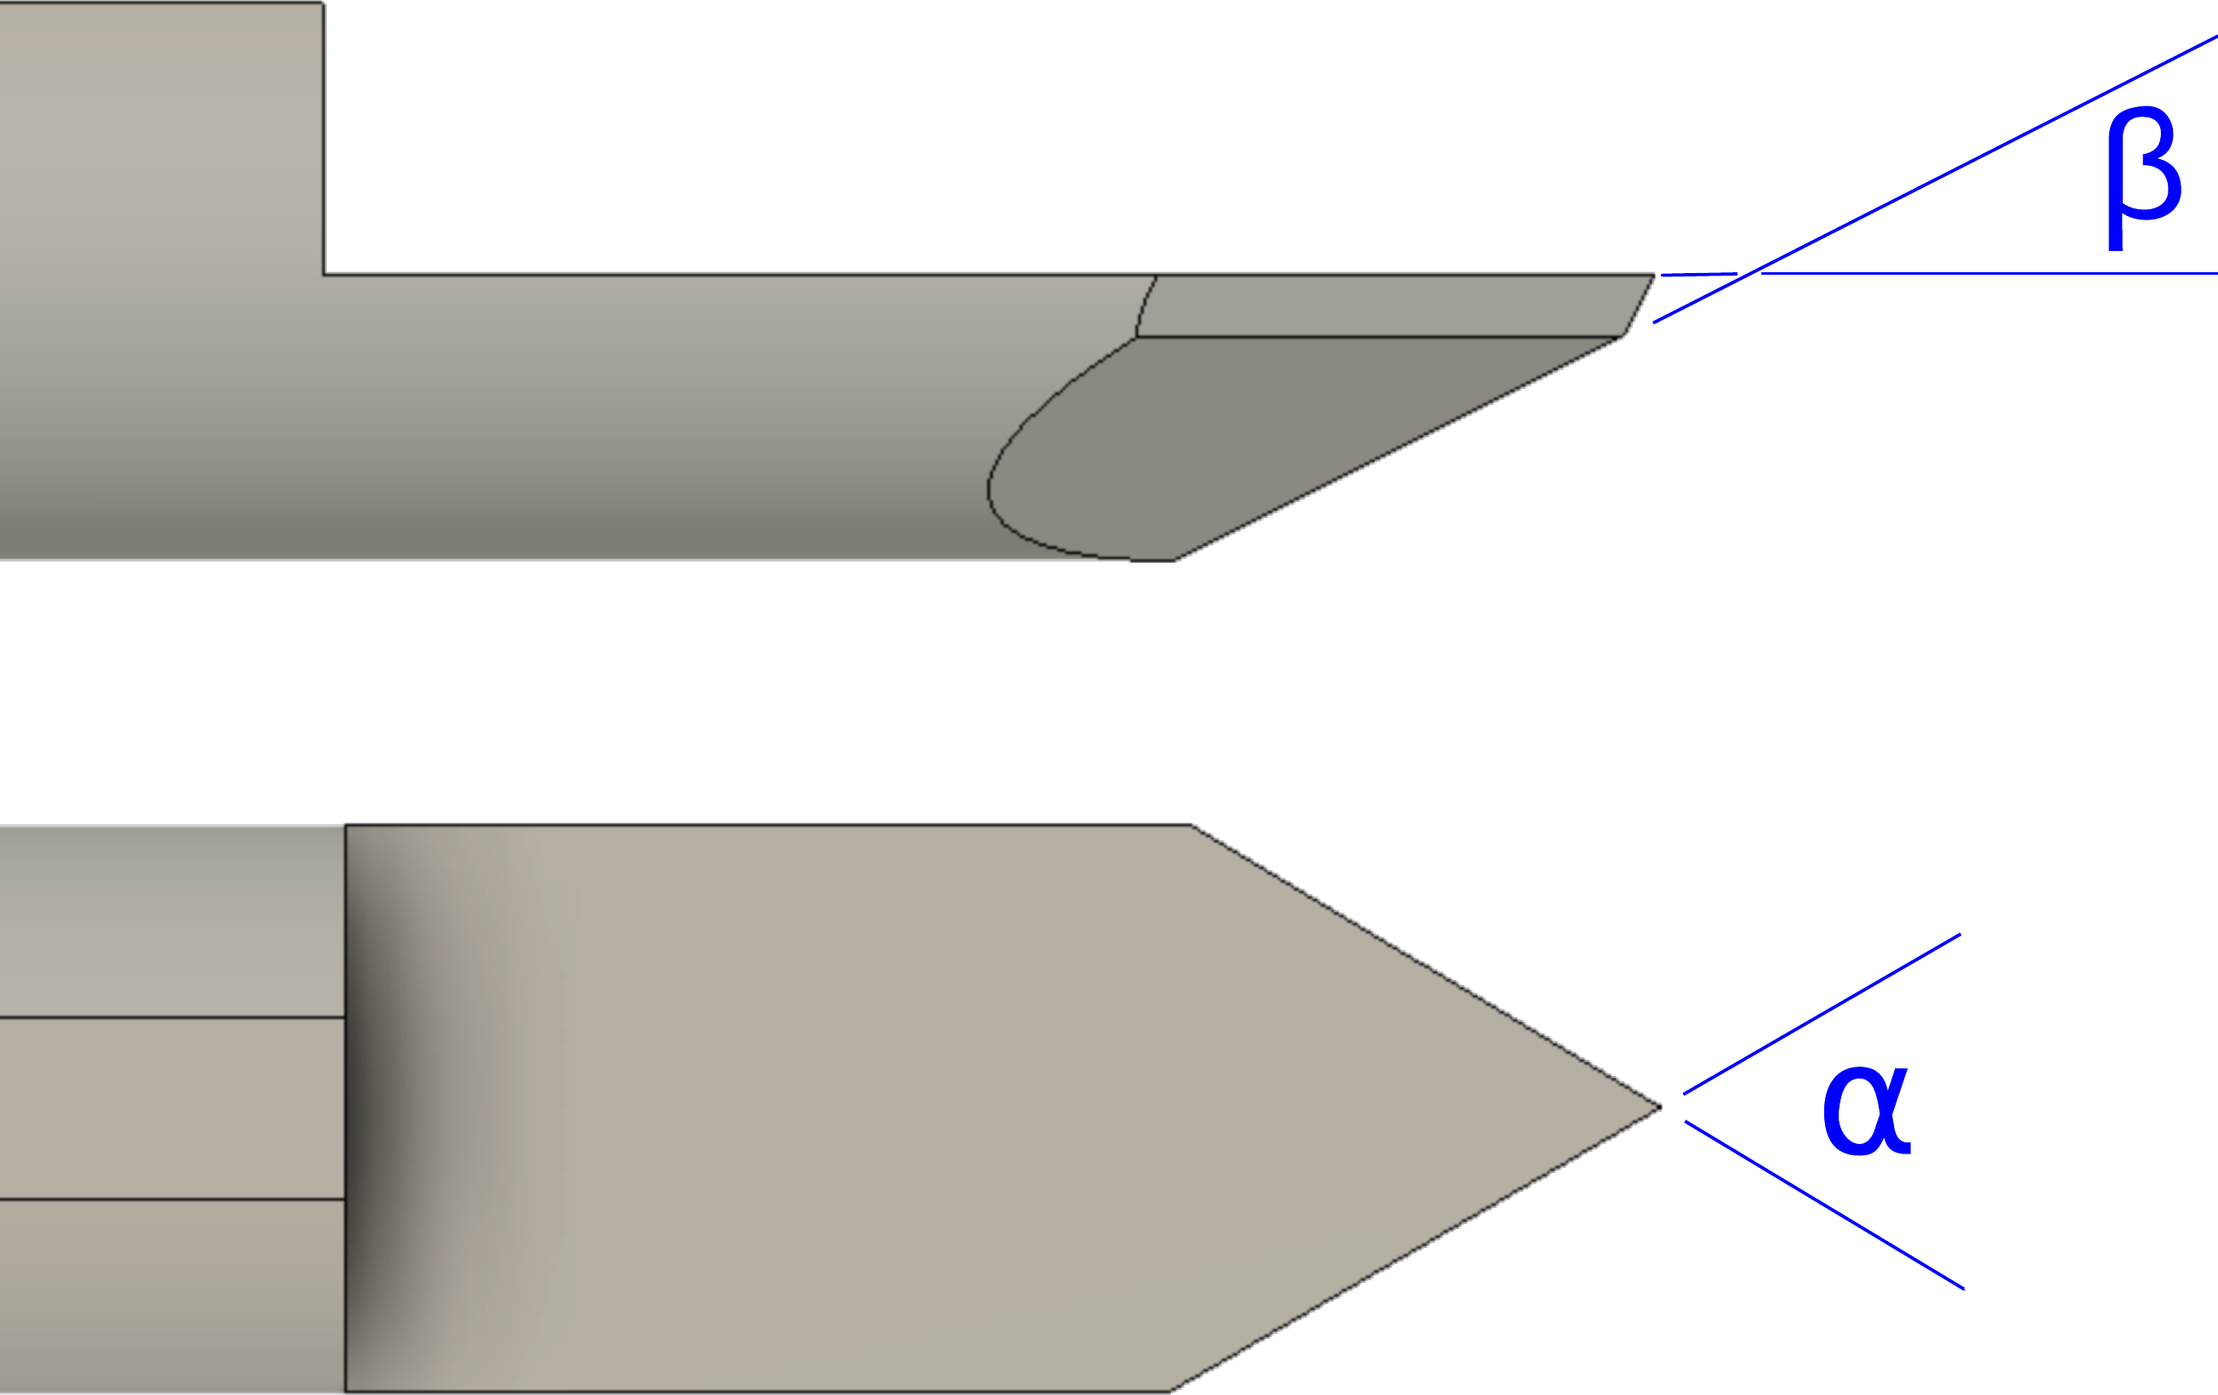
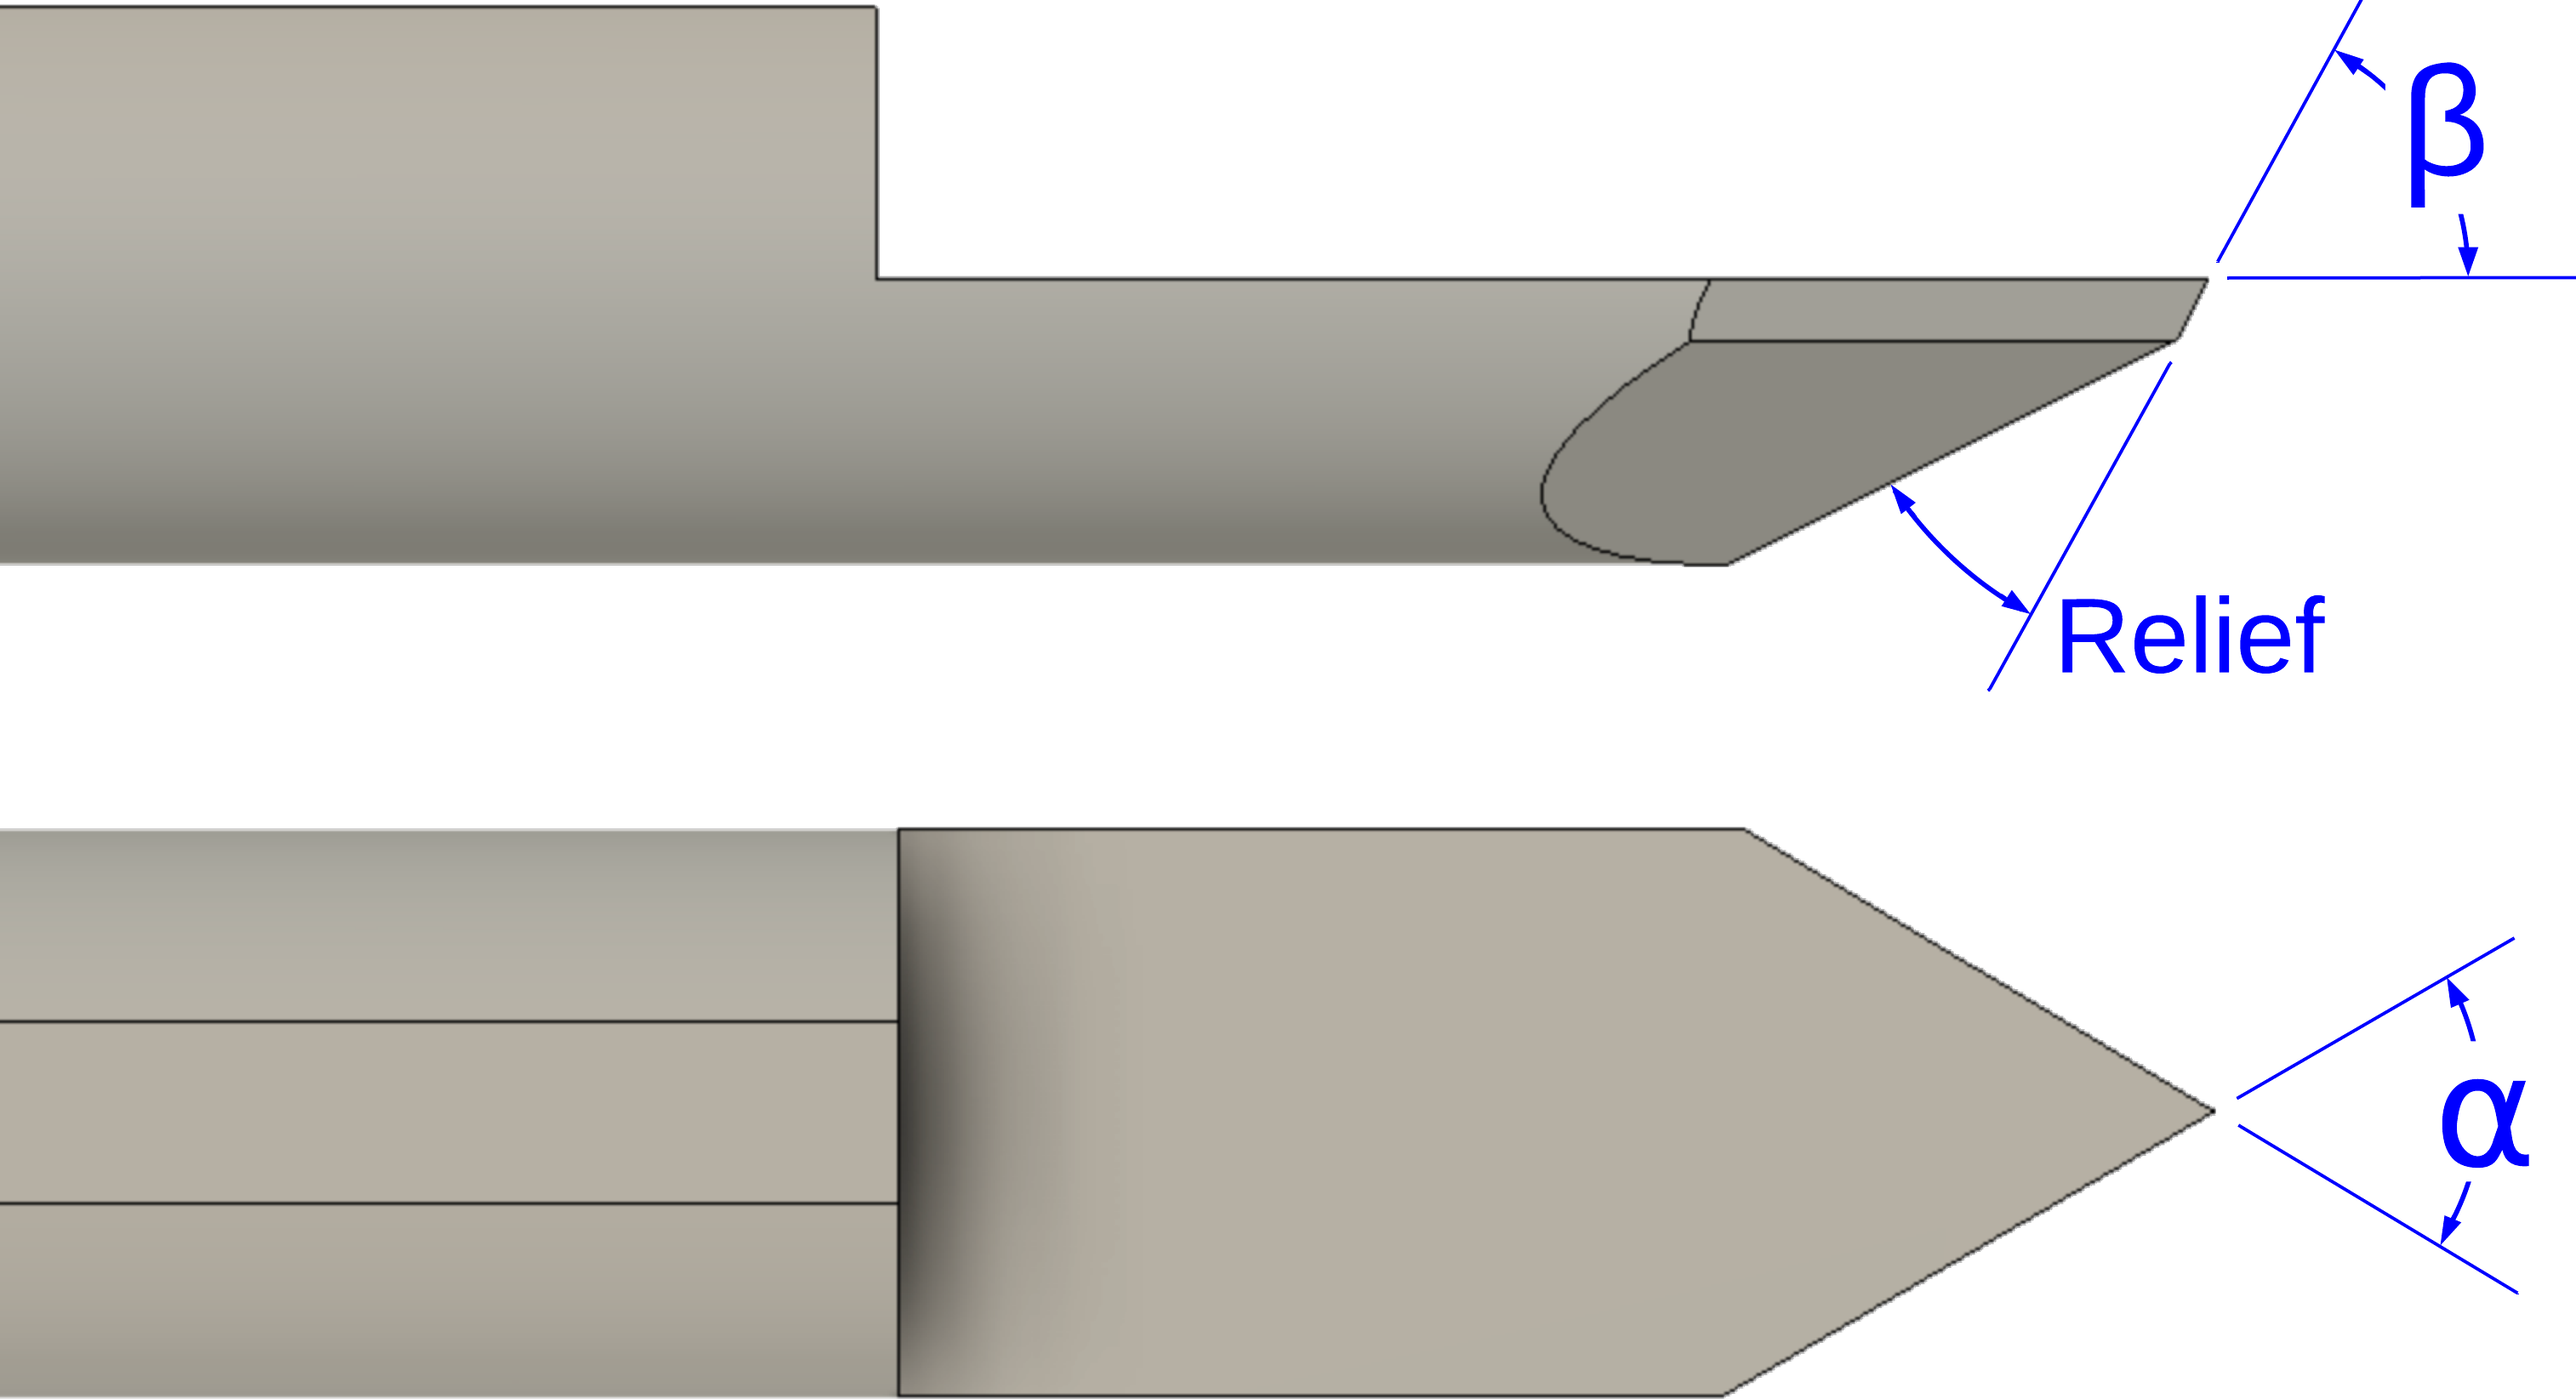
Fixed improper labelling of angles.

diff --git a/WW-RoseEngineFlyCutter-Rod.html b/WW-RoseEngineFlyCutter-Rod.html
@@ -86,13 +86,13 @@ includeHTML();
 <!-- ################################################### -->
 <!-- Guidance Information -->
 
-<p><div style=" float: left; Width: 300px; 
+<p><div style=" float: left; Width: 400px; 
         margin-left: 0px; margin-right: 5px; 
         margin-top: 0px; margin-bottom: 5px; 
         padding-left: 0px; padding-right: 5px; 
         padding-top: 5px; padding-bottom: 0px; 
         border: 1px solid darkgray; text-align: left;  ">
-    <IMG SRC="Images/FlyCutter.png" alt="Fly Cutter" style="width:100%">
+    <a href="Images/FlyCutter.png"><IMG SRC="Images/FlyCutter.png" alt="Fly Cutter" style="width:100%"></a>
     <p class="TextSMImage"><b><i>Edge Angles</i></b></p>
 </div>
 
@@ -142,7 +142,7 @@ includeHTML();
     </tr>
     
     <tr>
-        <th rowspan=2 style="border-style: solid;
+        <th style="border-style: solid;
         		vertical-align: bottom; text-align: center; 
 				background-color: #FFE4B5; 
 		        width: 150px;  
@@ -153,17 +153,7 @@ includeHTML();
 				border-left-width: thick; ">
 			<p class="TextTableHdrNorm"><b>Cutter Type</b></p>
 		</th>
-        <th colspan=2 style="border-style: solid; 
-        		vertical-align: bottom; text-align: center; 
-				background-color: #FFE4B5; 
-				border-color: black; 
-				border-top-width: medium; 
-				border-bottom-width: thin; 
-				border-right-width: medium; 
-				border-left-width: medium; ">
-			<p class="TextMedLG" style="font: 28px Garamond; margin-top: 0; margin-bottom: 0; color: #191970;"><b>&beta;</b></p>
-		</th>
-        <th rowspan=2 style="border-style: solid; 
+        <th style="border-style: solid; 
         		vertical-align: bottom; text-align: center; 
 				background-color: #FFE4B5; 
 		        width: 60px;  
@@ -174,28 +164,15 @@ includeHTML();
 				border-left-width: medium; ">
 			<p class="TextMedLG" style="font: 28px Garamond; margin-top: 0; margin-bottom: 0; color: #191970;"><b>&alpha;</b></p>
 		</th>
-        <th rowspan=2 colspan=2 style="border-style: solid; 
+        <th style="border-style: solid; 
         		vertical-align: bottom; text-align: center; 
 				background-color: #FFE4B5; 
 				border-color: black; 
 				border-top-width: medium; 
-				border-bottom-width: medium; 
-				border-right-width: thick; 
-				border-left-width: medium; ">
-			<p class="TextTableHdrNorm"><b>Comments</b></p>
-		</th>
-    </tr>
-    <tr>
-        <th style="border-style: solid; 
-        		vertical-align: bottom; text-align: center; 
-				background-color: #FFE4B5; 
-		        width: 50px;  
-				border-color: black; 
-				border-top-width: thin; 
-				border-bottom-width: medium; 
+				border-bottom-width: thin; 
 				border-right-width: thin; 
 				border-left-width: medium; ">
-			<p class="TextTableHdrNorm"><b>Prim</b></p>
+			<p class="TextMedLG" style="font: 28px Garamond; margin-top: 0; margin-bottom: 0; color: #191970;"><b>&beta;</b></p>
 		</th>
         <th style="border-style: solid; 
         		vertical-align: bottom; text-align: center; 
@@ -206,7 +183,17 @@ includeHTML();
 				border-bottom-width: medium; 
 				border-right-width: medium; 
 				border-left-width: thin; ">
-			<p class="TextTableHdrNorm"><b>Micro bevel</b></p>
+			<p class="TextTableHdrNorm"><b>Relief</b></p>
+		</th>
+        <th colspan=2 style="border-style: solid; 
+        		vertical-align: bottom; text-align: center; 
+				background-color: #FFE4B5; 
+				border-color: black; 
+				border-top-width: medium; 
+				border-bottom-width: medium; 
+				border-right-width: thick; 
+				border-left-width: medium; ">
+			<p class="TextTableHdrNorm"><b>Comments</b></p>
 		</th>
     </tr>
 
@@ -220,12 +207,23 @@ includeHTML();
 				border-top-width: medium; 
 				border-bottom-width: medium; 
 				border-right-width: medium; 
-				border-left-width: thick; ">
+				border-left-width: thick; 
+				padding-left: 0px; ">
         	<IMG SRC="Images/FlyCutterRod3dV.png" alt="V Shaped Cutter"
         			style="Width: 100%; 
 				    padding-left: 0px; padding-right: 5px; 
 				    padding-top: 5px; padding-bottom: 0px; ">
-                <p style="margin-top: 0; margin-bottom: 0;"><b>V Shaped Cutter</b></p>
+                <p style="margin-top: 0; margin-bottom: 0; margin-left: 5px;"><b>V Shaped Cutter</b></p>
+        </td>
+        <td style="border-style: solid; 
+        		vertical-align: middle; text-align: center; 
+				background-color: #ffffff; 
+				border-color: black; 
+				border-top-width: medium; 
+				border-bottom-width: thin; 
+				border-right-width: medium; 
+				border-left-width: medium; ">
+            30&deg;
         </td>
         <td style="border-style: solid; 
         		vertical-align: middle; text-align: center; 
@@ -245,17 +243,7 @@ includeHTML();
 				border-bottom-width: medium; 
 				border-right-width: medium; 
 				border-left-width: thin; ">
-            +5&deg;
-        </td>
-        <td style="border-style: solid; 
-        		vertical-align: middle; text-align: center; 
-				background-color: #ffffff; 
-				border-color: black; 
-				border-top-width: medium; 
-				border-bottom-width: thin; 
-				border-right-width: medium; 
-				border-left-width: medium; ">
-            30&deg;
+            5&deg;
         </td>
         <td style="border-style: solid; 
         		width: 300px;
@@ -276,7 +264,9 @@ includeHTML();
 				border-bottom-width: medium; 
 				border-right-width: thick; 
 				border-left-width: thin; ">
-            <p style="margin-top: 0;">My experience has shown that use of diamond grindstones, finishing up on the EF wheel, obviates the need for a micro-bevel.</p>
+            <p style="margin-top: 0;">A <a href="Jigs-Goniostat.html">goniostat</a> is quite useful for grinding these angles precisely.
+            
+            <p>A relief may not be needed.  If not, it will make the sharpening of this cutter much faster, and will probably help ensure it is well balanced.</p>
                 
             <p><b><u>Key Note</u>:</b> Setting a nose radius of 0.007 in. (0.2 mm) is a good idea.  If it is too pointy, the result on the work will look rather like a just-raked sand trap.  (I've used cutters purchased from Alibaba where this was a flat, not round.  They worked quite well.)</p>
         </td>
@@ -288,18 +278,19 @@ includeHTML();
 				border-color: black; 
 				border-top-width: thin; 
 				border-bottom-width: thin; 
-				border-right-width: thin; 
+				border-right-width: medium; 
 				border-left-width: medium; ">
-            22&frac12;&deg;
+            45&deg;
+        </td>
         <td style="border-style: solid; 
         		vertical-align: middle; text-align: center; 
 				background-color: #e5e4e2; 
 				border-color: black; 
 				border-top-width: thin; 
 				border-bottom-width: thin; 
-				border-right-width: medium; 
+				border-right-width: thin; 
 				border-left-width: medium; ">
-            45
+            22&frac12;&deg;
         </td>
         <td style="border-style: solid; 
         		vertical-align: top; text-align: left; 				background-color: #e5e4e2; 
@@ -320,9 +311,9 @@ includeHTML();
 				border-color: black; 
 				border-top-width: thin; 
 				border-bottom-width: thin; 
-				border-right-width: thin; 
+				border-right-width: medium; 
 				border-left-width: medium; ">
-            30&deg;
+            60&deg;
         </td>
         <td style="
         		border-style: solid; 
@@ -331,9 +322,9 @@ includeHTML();
 				border-color: black; 
 				border-top-width: thin; 
 				border-bottom-width: thin; 
-				border-right-width: medium; 
+				border-right-width: thin; 
 				border-left-width: medium; ">
-            60&deg;
+            30&deg;
         </td>
         <td style="border-style: solid; 
         		vertical-align: top; text-align: left; 
@@ -353,9 +344,9 @@ includeHTML();
 				border-color: black; 
 				border-top-width: thin; 
 				border-bottom-width: thin; 
-				border-right-width: thin; 
+				border-right-width: medium; 
 				border-left-width: medium; ">
-            45&deg;
+            90&deg;
         </td>
         <td style="border-style: solid; 
         		vertical-align: middle; text-align: center; 
@@ -363,9 +354,9 @@ includeHTML();
 				border-color: black; 
 				border-top-width: thin; 
 				border-bottom-width: thin; 
-				border-right-width: medium; 
+				border-right-width: thin; 
 				border-left-width: medium; ">
-            90&deg;
+            45&deg;
         </td>
         <td style="border-style: solid; 
         		vertical-align: top; text-align: left; 
@@ -384,20 +375,20 @@ includeHTML();
 				background-color: #ffffff; 
 				border-color: black; 
 				border-top-width: thin; 
-				border-bottom-width: medium; 
-				border-right-width: thin; 
+				border-bottom-width: thin; 
+				border-right-width: medium; 
 				border-left-width: medium; ">
-            60&deg;
+            120&deg;
         </td>
         <td style="border-style: solid; 
         		vertical-align: middle; text-align: center; 
 				background-color: #ffffff; 
 				border-color: black; 
 				border-top-width: thin; 
-				border-bottom-width: thin; 
-				border-right-width: medium; 
+				border-bottom-width: medium; 
+				border-right-width: thin; 
 				border-left-width: medium; ">
-            120&deg;
+            60&deg;
         </td>
         <td style="border-style: solid; 
         		vertical-align: top; text-align: left; 
@@ -407,7 +398,7 @@ includeHTML();
 				border-bottom-width: thin; 
 				border-right-width: thin; 
 				border-left-width: medium; ">
-            <p style="margin-top: 0; margin-bottom: 0;">A wide angle (<span style="font: 17px Garamond; margin-top: 0; margin-bottom: 0; color: #191970;"><b>&beta;</b></span>) is typically used for an eccentric cutting frame as many designs need an obtuse angle so that the light is reflected back to the viewer. Otherwise, it simply looks like a set of thick dark lines. Something >90&deg; is necessary.</p>
+            <p style="margin-top: 0; margin-bottom: 0;">A wide angle (<span style="font: 17px Garamond; margin-top: 0; margin-bottom: 0; color: #191970;"><b>&alpha;</b></span>) is typically used for an eccentric cutting frame as many designs need an obtuse angle so that the light is reflected back to the viewer. Otherwise, it simply looks like a set of thick dark lines. Something >90&deg; is necessary.</p>
         </td>
     </tr>
     
@@ -421,13 +412,24 @@ includeHTML();
 				border-top-width: medium; 
 				border-bottom-width: medium; 
 				border-right-width: medium; 
-				border-left-width: thick; ">
+				border-left-width: thick; 
+				padding-left: 0px; ">
         	<IMG SRC="Images/FlyCutterRod3dU.png" alt="U Shaped Cutter" 
         			style="Width: 100%; 
 				    padding-left: 0px; padding-right: 5px; 
 				    padding-top: 5px; padding-bottom: 0px; ">
-                <p style="margin-top: 0; margin-bottom: 0;"><b>U Shaped Cutter</b></p>
+                <p style="margin-top: 0; margin-bottom: 0; margin-left: 5px;"><b>U Shaped Cutter</b></p>
 		</td>
+        <td style="border-style: solid; 
+				background-color: LightGrey; 
+        		vertical-align: middle; text-align: center; 
+				border-color: black; 
+				border-top-width: medium; 
+				border-bottom-width: medium; 
+				border-right-width: medium; 
+				border-left-width: thin; ">
+            <span style="color: Gray;"><i>n/a</i></span>
+        </td>
         <td style="border-style: solid; 
 				background-color: LightGrey; 
         		vertical-align: middle; text-align: center; 
@@ -446,16 +448,6 @@ includeHTML();
 				border-bottom-width: medium; 
 				border-right-width: medium; 
 				border-left-width: thin; ">
-            <span style="color: Gray;"><i>n/a</i></span>
-        </td>
-        <td style="border-style: solid; 
-				background-color: LightGrey; 
-        		vertical-align: middle; text-align: center; 
-				border-color: black; 
-				border-top-width: medium; 
-				border-bottom-width: medium; 
-				border-right-width: medium; 
-				border-left-width: medium; ">
             <span style="color: Gray;"><i>n/a</i></span>
         </td>
         <td colspan=2 style="border-style: solid; 
@@ -543,7 +535,9 @@ includeHTML();
 				</tr>
 			</table>
 
-            <p style="margin-top: 0; margin-bottom: 0; ">Use the Tormek SVD-186 Gouge Jig with the square rod for holding the cutter.
+            <p style="margin-top: 0; ">Use the Tormek SVD-186 Gouge Jig with the square rod for holding the cutter.  
+            
+            <p style="margin-bottom: 0; ">A relief grind can be added if needed.  This is easily done when using the SVD-186 jig by adjusting the stop ring.
         </td>
     </tr>
 
@@ -557,12 +551,23 @@ includeHTML();
 				border-top-width: medium; 
 				border-bottom-width: thick; 
 				border-right-width: medium; 
-				border-left-width: thick; ">
+				border-left-width: thick; 
+				padding-left: 0px; ">
         	<IMG SRC="Images/FlyCutterRod3dSq.png" alt="Square Cutter" 
         			style="Width: 100%; 
 				    padding-left: 0px; padding-right: 5px; 
 				    padding-top: 5px; padding-bottom: 0px; ">
-                <p style="margin-top: 0; margin-bottom: 0;"><b>Square Cutter</b></p>
+                <p style="margin-top: 0; margin-bottom: 0; margin-left: 5px;"><b>Square Cutter</b></p>
+        </td>
+        <td style="border-style: solid; 
+				background-color: LightGrey; 
+        		vertical-align: middle; text-align: center; 
+				border-color: black; 
+				border-top-width: medium; 
+				border-bottom-width: thick; 
+				border-right-width: medium; 
+				border-left-width: thin; ">
+            <span style="color: Gray;"><i>n/a</i></span>
         </td>
         <td style="border-style: solid; 
         		vertical-align: middle; text-align: center; 
@@ -582,17 +587,7 @@ includeHTML();
 				border-bottom-width: thick; 
 				border-right-width: medium; 
 				border-left-width: thin; ">
-            +5&deg;
-        </td>
-        <td style="border-style: solid; 
-        		vertical-align: middle; text-align: center; 
-				background-color: #ffffff; 
-				border-color: black; 
-				border-top-width: medium; 
-				border-bottom-width: thick; 
-				border-right-width: medium; 
-				border-left-width: medium; ">
-            <span style="color: Gray;"><i>n/a</i></span>
+            5&deg;
         </td>
         <td colspan=2 style="border-style: solid; 
         		vertical-align: top; text-align: left; 
